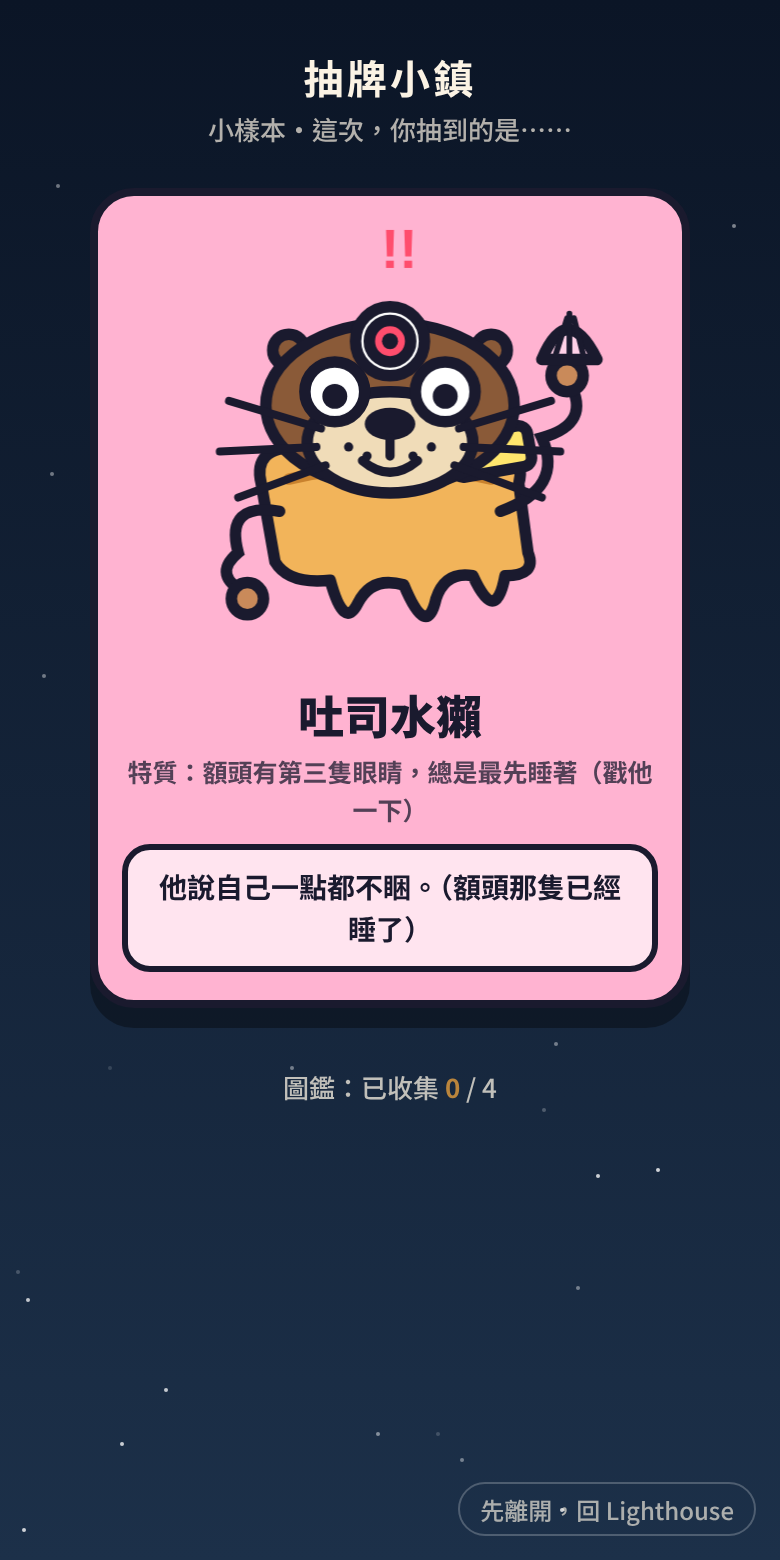
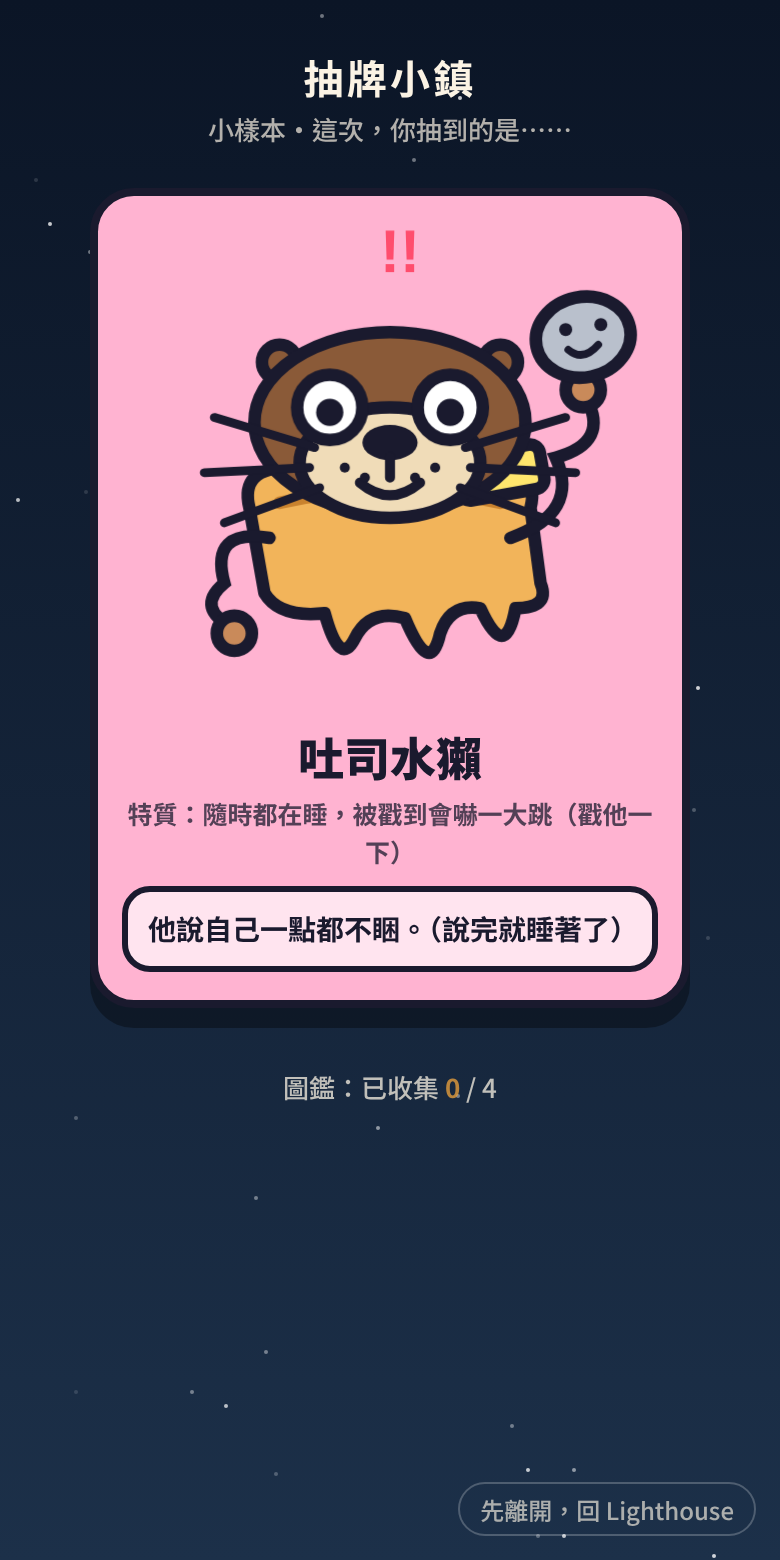
Lighthouse: 抽牌小樣本，水獺拿掉第三隻眼、手上改拿笑臉小石頭
Claude-Session: https://claude.ai/code/session_01QMXbFy7GatcecM2zJaJAS8

Changed region(s): [[0.1538, 0.1538, 0.8615, 0.6154]]

diff --git a/lighthouse/cards-sample.html b/lighthouse/cards-sample.html
@@ -104,7 +104,7 @@ const ART = {
     <path d="M56 118 Q100 108 144 118" fill="none" stroke="#c9822e" stroke-width="5" stroke-linecap="round"/>
     <g transform="rotate(-10 150 112)"><rect x="128" y="96" width="34" height="18" rx="4" fill="#ffe66d" ${o}/></g>
     <path d="M52 132 Q28 128 34 150 Q22 160 38 168" fill="none" stroke="${INK}" stroke-width="5" stroke-linecap="round"/><circle cx="38" cy="170" r="7" fill="#c98a5a" ${o}/>
-    <path d="M148 132 Q176 122 166 100 Q188 94 178 76" fill="none" stroke="${INK}" stroke-width="5" stroke-linecap="round"/><circle cx="177" cy="73" r="7" fill="#c98a5a" ${o}/><path d="M166 66 Q177 40 190 66 Z" fill="#ffd1e8" ${o}/><path d="M172 64 L177 48 M178 64 L178 46 M184 64 L180 48" stroke="${INK}" stroke-width="2.5" stroke-linecap="round"/>
+    <path d="M148 132 Q176 122 166 100 Q188 94 178 76" fill="none" stroke="${INK}" stroke-width="5" stroke-linecap="round"/><circle cx="177" cy="73" r="7" fill="#c98a5a" ${o}/><ellipse cx="177" cy="52" rx="19" ry="16" fill="#b9c0cc" ${o} transform="rotate(-12 177 52)"/><circle cx="170" cy="49" r="2.6" fill="${INK}"/><circle cx="184" cy="47" r="2.6" fill="${INK}"/><path d="M171 57 Q177 62 183 55" fill="none" stroke="${INK}" stroke-width="3" stroke-linecap="round"/>
     <circle cx="56" cy="62" r="7" fill="#8a5a38" ${o}/><circle cx="144" cy="62" r="7" fill="#8a5a38" ${o}/>
     <ellipse cx="100" cy="86" rx="54" ry="36" fill="#8a5a38" ${o}/>
     <ellipse cx="100" cy="102" rx="36" ry="22" fill="#f0dcb8" ${o}/>
@@ -114,10 +114,6 @@ const ART = {
     <path d="M70 96 L30 84 M68 104 L26 106 M72 112 L34 126 M130 96 L170 84 M132 104 L174 106 M128 112 L166 126" stroke="${INK}" stroke-width="3.5" stroke-linecap="round"/>
     <g class="sleepE"><circle cx="76" cy="80" r="13" fill="#f0dcb8" ${o}/><circle cx="124" cy="80" r="13" fill="#f0dcb8" ${o}/><path d="M67 80 Q76 88 85 80 M115 80 Q124 88 133 80" fill="none" stroke="${INK}" stroke-width="5" stroke-linecap="round"/></g>
     <g class="awakeE">${eyeBig(76,80,13,0)}${eyeBig(124,80,13,0)}</g>
-    <circle cx="100" cy="58" r="15" fill="#fff" ${o}/>
-    <g class="sleepE"><path d="M88 58 Q100 68 112 58" fill="none" stroke="${INK}" stroke-width="5" stroke-linecap="round"/>
-    <path d="M90 62 L87 67 M100 65 L100 71 M110 62 L113 67" stroke="${INK}" stroke-width="3" stroke-linecap="round"/></g>
-    <g class="awakeE"><circle cx="100" cy="58" r="9" fill="#ff4d6d" ${o}/><circle cx="100" cy="58" r="3.5" fill="${INK}"/></g>
     <text class="oops" x="96" y="26" font-size="24" font-weight="900" fill="#ff4d6d" font-family="sans-serif">!!</text>
     </g>
     <g class="zz" fill="${INK}" font-weight="900" font-family="sans-serif"><text x="116" y="34" font-size="22">Z</text></g>
@@ -183,7 +179,7 @@ const ART = {
 };
 
 const CARDS = [
-  {id:"otter",   name:"吐司水獺",   trait:"特質：額頭有第三隻眼睛，總是最先睡著（戳他一下）", say:"他說自己一點都不睏。（額頭那隻已經睡了）", bg:"#ffb3d1", rare:0},
+  {id:"otter",   name:"吐司水獺",   trait:"特質：隨時都在睡，被戳到會嚇一大跳（戳他一下）", say:"他說自己一點都不睏。（說完就睡著了）", bg:"#ffb3d1", rare:0},
   {id:"hedgehog",name:"WiFi 刺蝟", trait:"特質：訊號不好就炸毛（戳他一下試試）", say:"他不是在生氣，只是在轉圈圈載入中。", bg:"#b8f27c", rare:0},
   {id:"penguin", name:"冷場企鵝",   trait:"特質：肚子的時鐘倒著走，笑話慢半拍才到", say:"全場安靜，是因為大家都在偷偷憋笑。（大概）", bg:"#7de3ff", rare:0},
   {id:"snail",   name:"茶杯燈塔蝸牛", trait:"特質：慢慢來，迷路也沒關係，而且會發光", say:"仙境本來就沒有直線，你走歪的那一步，也算數。", bg:"#7a5cff", rare:1}
